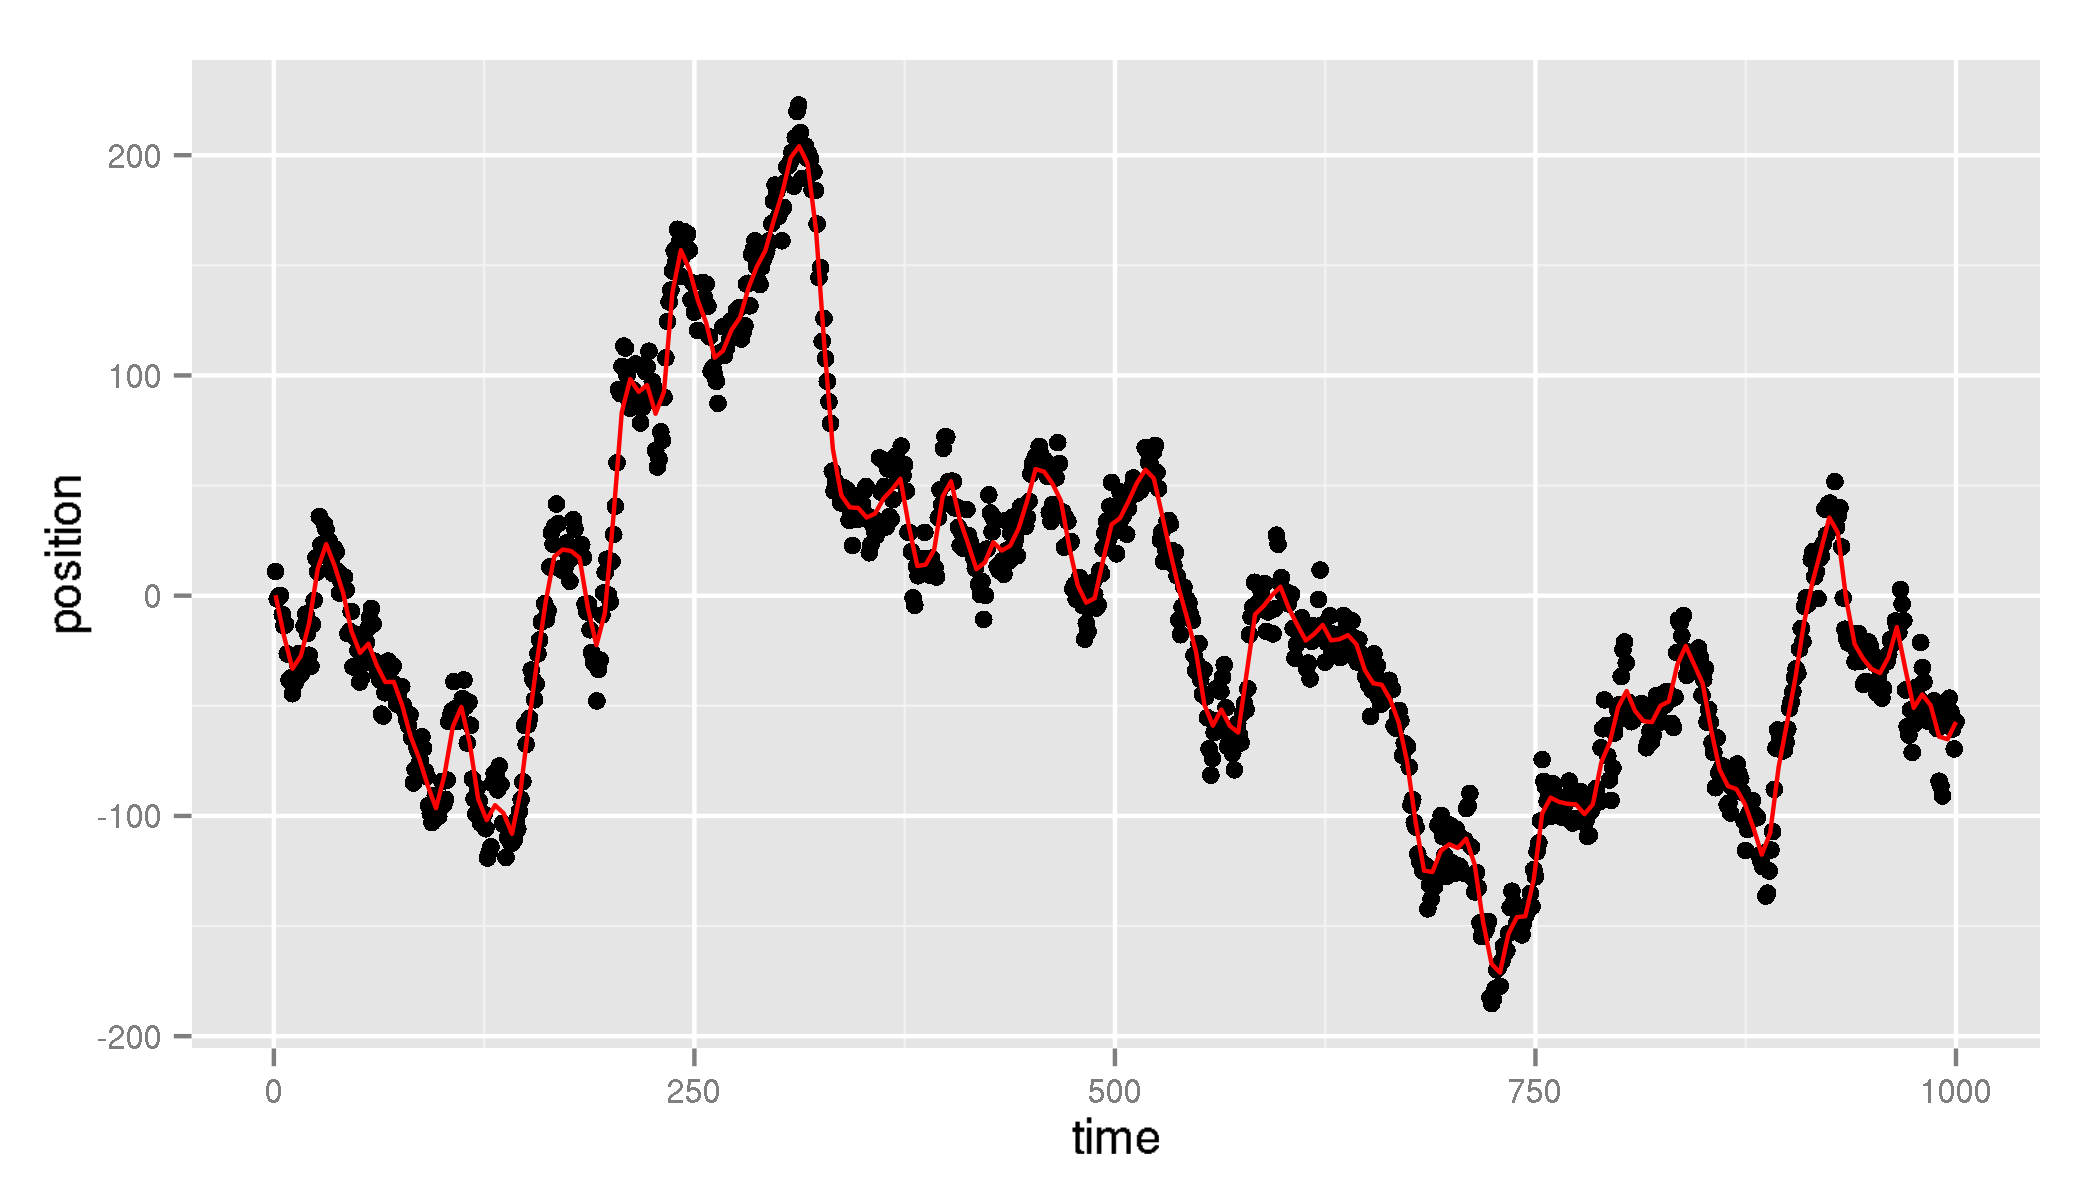
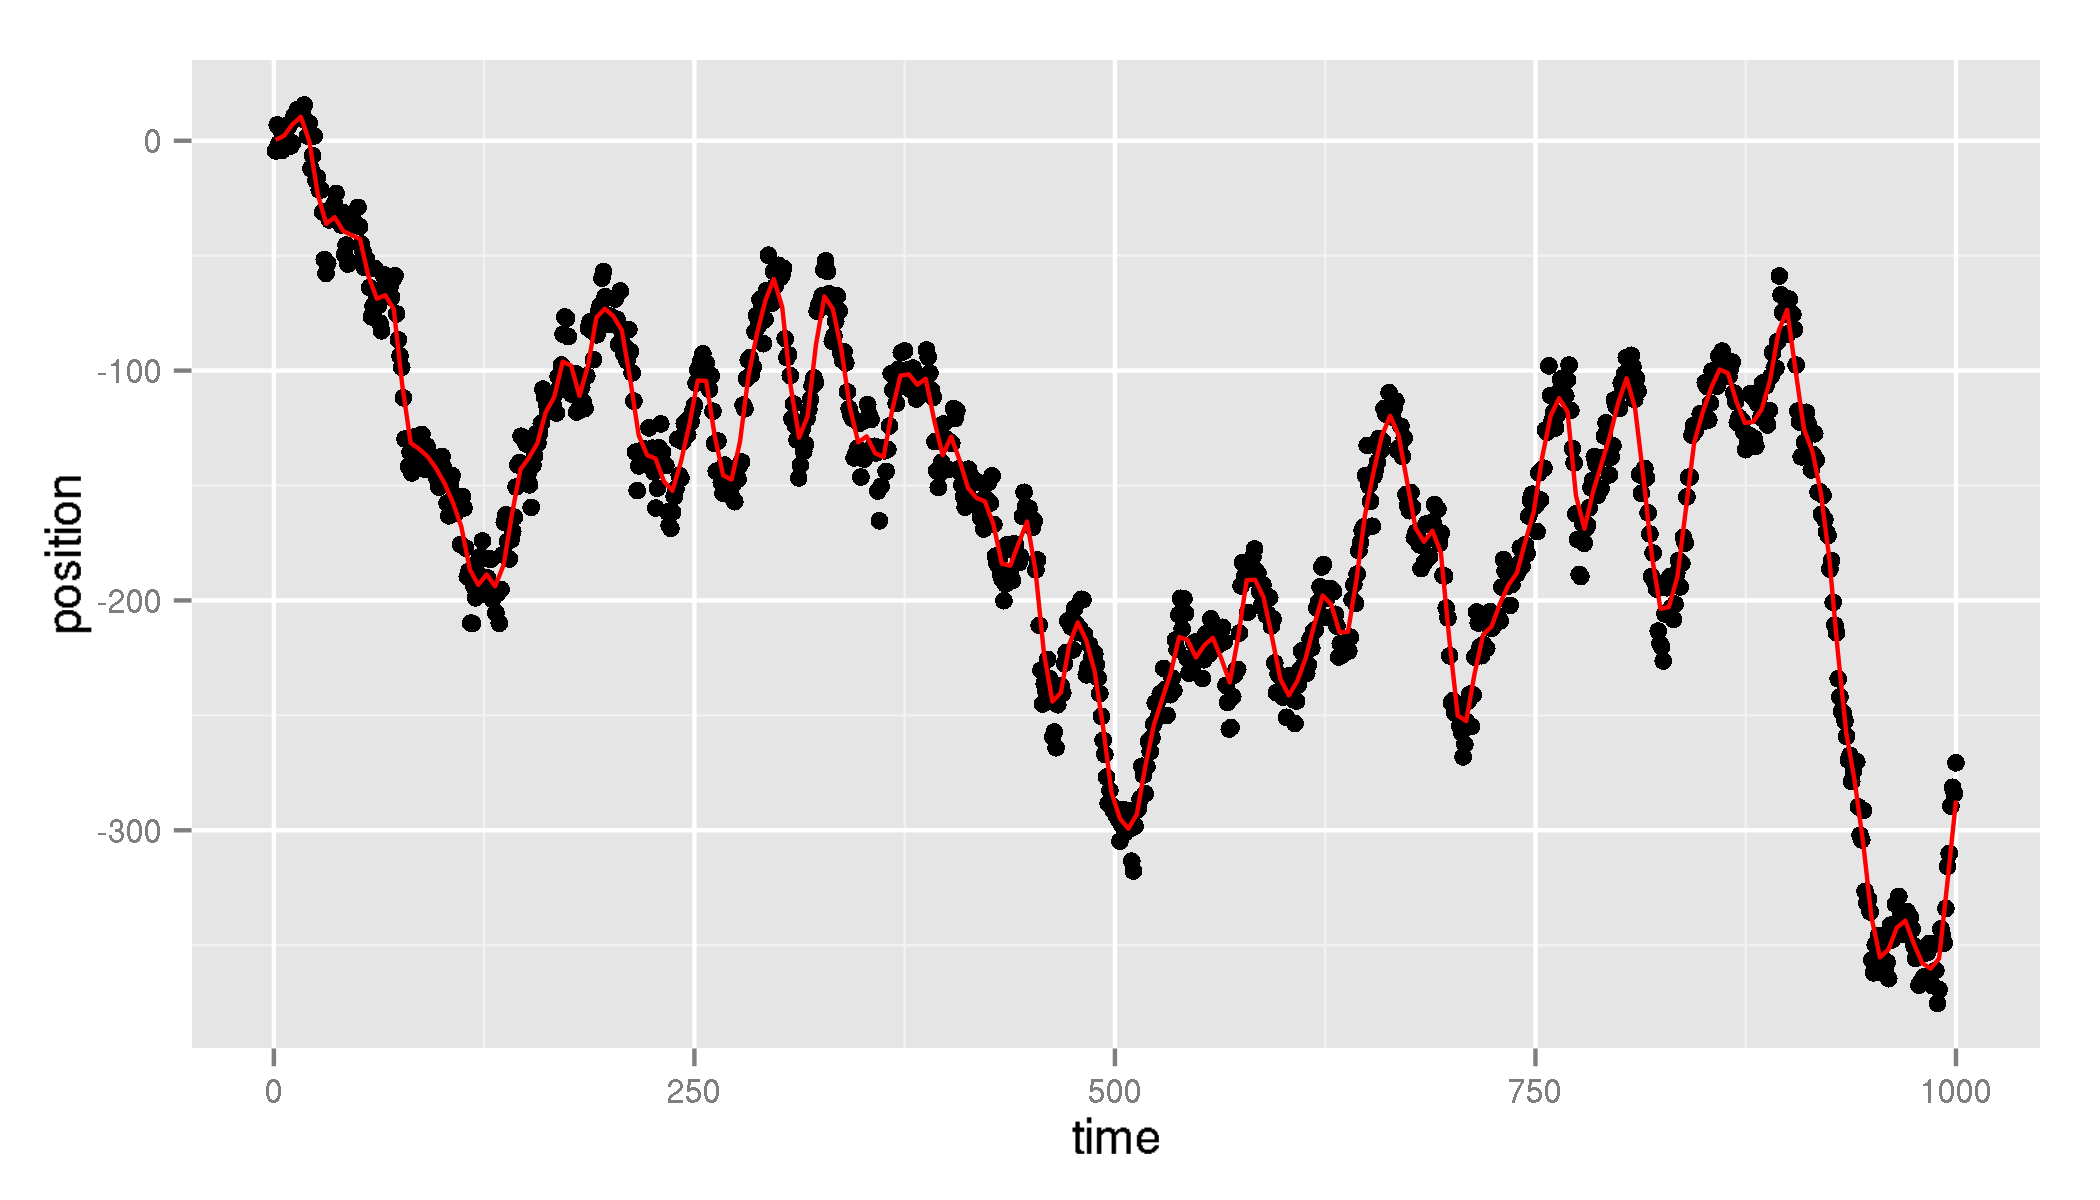
Updated doc with README and examples.

Changed region(s): [[0.031, 0.0617, 0.9595, 0.8633], [0.7429, 0.1233, 0.9286, 0.1542], [0.5571, 0.1233, 0.7119, 0.1542]]

diff --git a/README.md b/README.md
@@ -6,8 +6,15 @@ moving-window based computations easier. Just provide a function that works on
 a data.frame, rollply will take care of slicing the dataset into appropriate
 subsets and apply that function to each of them. 
 
-In short, it allows writing something like: 
+Some packages for time series are out there that contain functions computing 
+moving averages (e.g. TTR::SMA), but were not flexible enough for my use and 
+required specific time-series classes. Rollply works on generic data.frames and
+takes advantages on plyr's sugar (parallelism, progress report, etc.).
+
+In short, it allows writing something like this:
+
 ```r
+# Generate data
 dat <- data.frame(time=seq.int(1000),
                   position=cumsum(rnorm(1000,0,10)))
 
@@ -19,5 +26,37 @@ ggplot() +
   geom_line(aes(time,position.mean), color='red', data=rollav)
 ```
 
-![rollply_example: random walk](/examples/random_walk.png?raw=true "Average of a random walk")
+![rollply_example: random walk](/examples/random_walk.png?raw=true "Average of a 1D random walk")
+
+Rollply supports groups and 2D moving windows too: 
+
+```r
+# Generate three 2D random walks
+dat <- ddply(data.frame(person=c('françois','nicolas','jacques')), ~ person, 
+             summarise, 
+              time=seq.int(1000),
+              x=cumsum(rnorm(1000,0,1)),
+              y=cumsum(rnorm(1000,0,1)))
+
+# Smoothed trajectory over ten time-steps
+rollav <- rollply(dat, ~ time | person, wdw.size=10, mesh.res=1000,
+                  summarise, x=mean(x), y=mean(y))
+
+ggplot(dat,aes(x,y,color=person)) + 
+  geom_point(alpha=.5, shape='+') + 
+  geom_path(data=rollav) 
+```
+
+![rollply_example: random walk with groups](/examples/random_walk_groups.png?raw=true "Average of 2D random walks")
+
+```r
+fixed_mesh <- build_mesh(dat[ ,c('x','y')], 5000) # we fix the mesh across groups
+rollav <- rollply(dat, ~ x + y | person, wdw.size=10, mesh=fixed_mesh,
+                  summarise, time.spent=length(time))
+
+ggplot(subset(rollav, time.spent>0)) + 
+  geom_point(aes(x,y), size=1, shape='x') +
+  geom_point(aes(x,y, color=person, size=time.spent))
+```
+![rollply_example: random walk with 2D window](/examples/random_walk_time_spent.png?raw=true "Time spent in each window")
 
